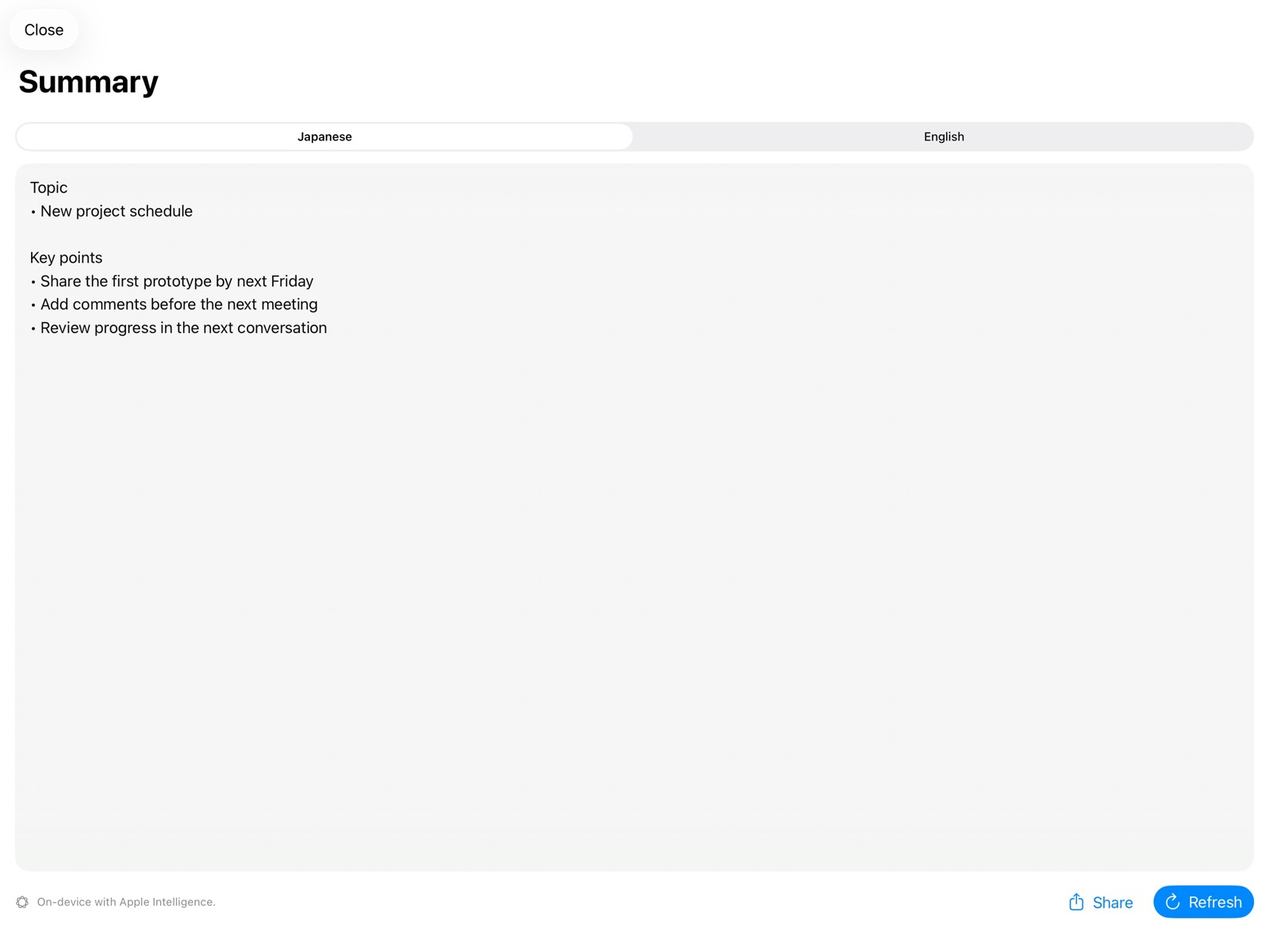
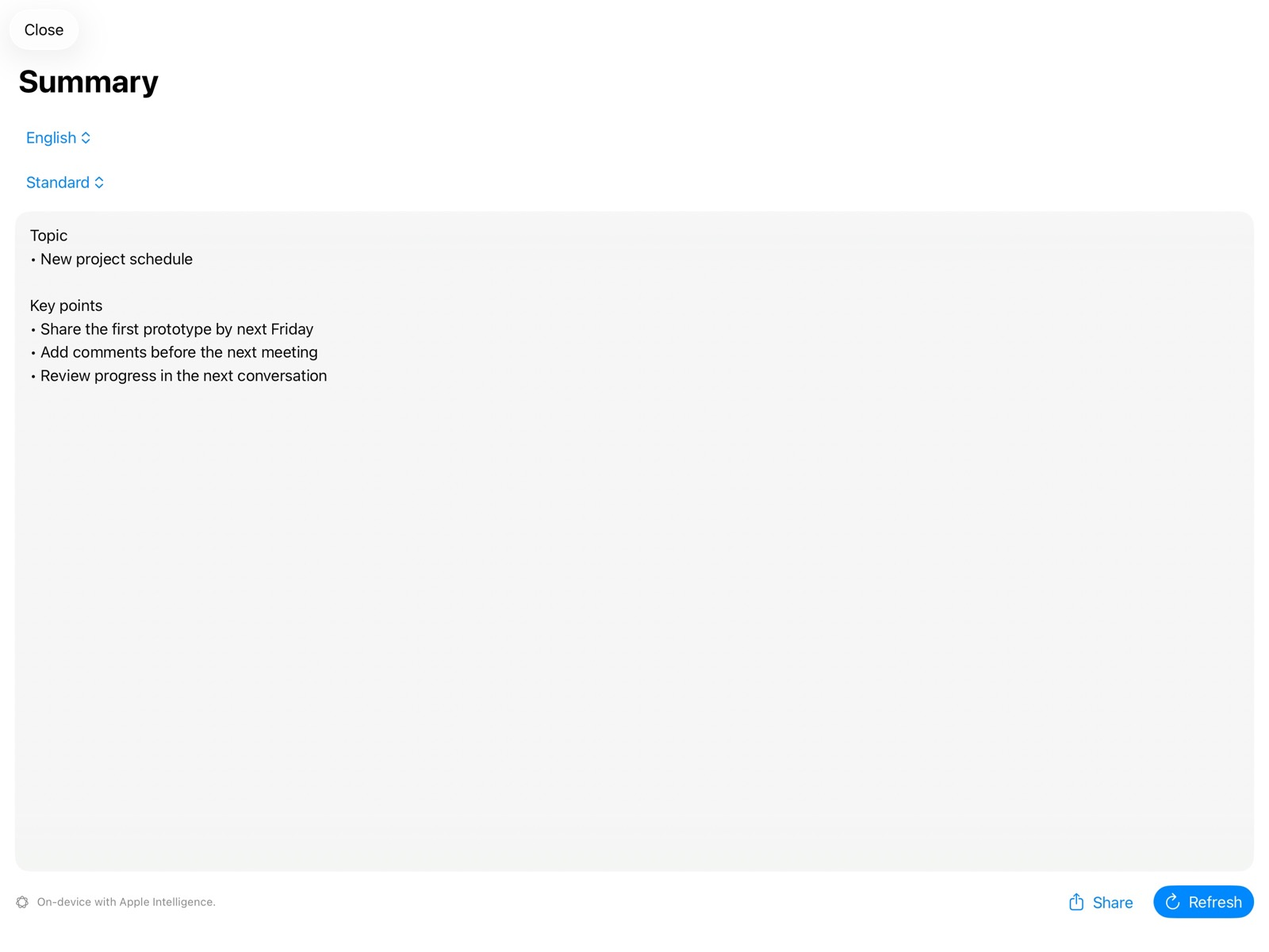
Update Wayaknow multilingual release page

diff --git a/ja/apps/wayaknow/index.html b/ja/apps/wayaknow/index.html
@@ -3,7 +3,7 @@
 <head>
   <meta charset="utf-8">
   <meta name="viewport" content="width=device-width, initial-scale=1">
-  <meta name="description" content="wayaknowは、日本語・英語の音声をリアルタイムで書き起こし、翻訳し、要点をまとめるMac・iPhone・iPadアプリです。">
+  <meta name="description" content="wayaknowは、10言語の音声を端末内でリアルタイムに書き起こし、翻訳し、選んだ形式で要約するMac・iPhone・iPad・Apple Watchアプリです。">
   <meta property="og:title" content="wayaknow — リアルタイム書き起こし・翻訳・要約">
   <meta property="og:description" content="話す。伝わる。まとまる。音声を「分かる」へ渡すアプリ。">
   <meta property="og:type" content="website">
@@ -33,10 +33,10 @@
         <div>
           <h1 class="page-title">wayaknow</h1>
           <p class="page-subtitle">話す。伝わる。まとまる。</p>
-          <div class="meta-row"><span class="tag">macOS</span><span class="tag">iPhone</span><span class="tag">iPad</span><span class="tag">日本語 ⇄ English</span></div>
+          <div class="meta-row"><span class="tag">macOS</span><span class="tag">iPhone</span><span class="tag">iPad</span><span class="tag">Apple Watch</span><span class="tag">10言語</span></div>
         </div>
       </div>
-      <p class="lead">日本語または英語の音声をその場で文字にし、反対側の言語へ1文ずつ翻訳。必要なときは、会話のトピックとポイントをまとめます。</p>
+      <p class="lead">10言語の音声をその場で文字にし、選んだ言語へ1文ずつ翻訳。必要なときは、目的に合わせた形式で会話のトピックとポイントをまとめます。</p>
       <div class="button-row">
         <a class="button primary" href="https://apps.apple.com/app/wayaknow/id6792943436" rel="external">App Storeで見る <span aria-hidden="true">↗</span></a>
         <a class="button" href="/ja/apps/wayaknow/support/">使い方・サポート</a>
@@ -45,14 +45,14 @@
 
     <section class="section tinted">
       <div class="container">
-        <div class="section-head reveal"><p class="eyebrow">What it does</p><h2 class="section-title">会話を追いかけながら、読める形へ。</h2><p class="section-copy">複雑な操作を挟まず、入力言語を選んで開始するだけ。話している途中でも、日本語と英語を切り替えられます。</p></div>
+        <div class="section-head reveal"><p class="eyebrow">What it does</p><h2 class="section-title">会話を追いかけながら、読める形へ。</h2><p class="section-copy">複雑な操作を挟まず、入力言語を選んで開始するだけ。10言語の入力と翻訳先を、話している途中でも切り替えられます。</p></div>
         <div class="feature-grid">
-          <article class="feature reveal"><span class="feature-number">01</span><h3>リアルタイム書き起こし</h3><p>日本語または英語を選び、音声を文章へ。新しい発話へ自動でスクロールします。</p></article>
-          <article class="feature reveal"><span class="feature-number">02</span><h3>1文ずつ翻訳</h3><p>文章がまとまるたびに日英翻訳。会話への追従を優先する低遅延と、自然さを優先する高品質を選べます。</p></article>
-          <article class="feature reveal"><span class="feature-number">03</span><h3>トピックとポイントを要約</h3><p>書き起こし全体から話題と要点を整理。内容に応じて決定事項やアクション項目も示します。</p></article>
+          <article class="feature reveal"><span class="feature-number">01</span><h3>リアルタイム書き起こし</h3><p>10言語から選び、音声を文章へ。新しい発話へ自動でスクロールします。</p></article>
+          <article class="feature reveal"><span class="feature-number">02</span><h3>1文ずつ翻訳</h3><p>文章がまとまるたびに翻訳。会話への追従を優先する低遅延と、自然さを優先する高品質を選べます。</p></article>
+          <article class="feature reveal"><span class="feature-number">03</span><h3>目的に合わせた要約</h3><p>標準、会議メモ、講義ノート、研究発表、案内・手続きから選択。話題とポイントを整理します。</p></article>
           <article class="feature reveal"><span class="feature-number">04</span><h3>Macのシステム音声</h3><p>Mac版は、権利や許諾のある音声に限り、Macで再生中の音声を入力として選べます。</p></article>
           <article class="feature reveal"><span class="feature-number">05</span><h3>最前面ミニ表示</h3><p>Macで別のアプリを使いながら、書き起こし・翻訳・両方を小さなウインドウで確認できます。</p></article>
-          <article class="feature reveal"><span class="feature-number">06</span><h3>保存とプライバシー</h3><p>文章は選んだ場所へテキストで保存。音声認識、翻訳、要約を開発者のサーバーへ送りません。</p></article>
+          <article class="feature reveal"><span class="feature-number">06</span><h3>保存とプライバシー</h3><p>文章は選んだ場所へテキストで保存。必要なモデルを準備した対応端末では、主要機能を端末内で処理します。</p></article>
         </div>
       </div>
     </section>
@@ -80,7 +80,7 @@
         <div class="section-head reveal"><p class="eyebrow">Requirements & privacy</p><h2 class="section-title">端末の中で処理する設計。</h2></div>
         <div class="split">
           <article class="notice reveal"><h3>動作環境</h3><p>Apple silicon搭載MacのmacOS 26.4以降、またはiOS／iPadOS 26.4以降。高品質モードと要約は、Apple Intelligenceの対応状況やモデルの準備状態により利用可否が異なります。</p></article>
-          <article class="notice reveal"><h3>データの扱い</h3><p>アカウント登録、広告、アクセス解析はありません。音声、書き起こし、翻訳、要約を開発者のサーバーへ収集しません。詳しくはプライバシーポリシーをご覧ください。</p></article>
+          <article class="notice reveal"><h3>オフラインとデータの扱い</h3><p>初回などに必要なモデルを準備した対応端末では、主要機能をネット接続なしで端末内処理できます。アカウント、広告、アクセス解析はなく、会話内容を開発者のサーバーへ収集しません。</p></article>
         </div>
         <div class="button-row"><a class="button" href="/ja/apps/wayaknow/privacy/">プライバシーポリシー</a><a class="button" href="/ja/apps/wayaknow/terms/">利用規約</a></div>
       </div>

diff --git a/en/apps/wayaknow/index.html b/en/apps/wayaknow/index.html
@@ -3,7 +3,7 @@
 <head>
   <meta charset="utf-8">
   <meta name="viewport" content="width=device-width, initial-scale=1">
-  <meta name="description" content="wayaknow transcribes Japanese or English in real time, translates sentence by sentence, and summarizes the conversation on Mac, iPhone, and iPad.">
+  <meta name="description" content="wayaknow transcribes speech in 10 languages on device, translates sentence by sentence, and summarizes in a chosen format on Mac, iPhone, iPad, and Apple Watch.">
   <meta property="og:title" content="wayaknow — Live transcription, translation, and summaries">
   <meta property="og:description" content="Speak. Understand. Carry the conversation forward.">
   <meta property="og:type" content="website">
@@ -30,22 +30,22 @@
       <p class="breadcrumbs"><a href="/en/">Nakano Lab Software</a> / wayaknow</p>
       <div class="product-hero">
         <img class="product-icon" src="/assets/images/wayaknow/icon.png" alt="wayaknow icon" width="1024" height="1024">
-        <div><h1 class="page-title">wayaknow</h1><p class="page-subtitle">Speak. Understand. Carry it forward.</p><div class="meta-row"><span class="tag">macOS</span><span class="tag">iPhone</span><span class="tag">iPad</span><span class="tag">日本語 ⇄ English</span></div></div>
+        <div><h1 class="page-title">wayaknow</h1><p class="page-subtitle">Speak. Understand. Carry it forward.</p><div class="meta-row"><span class="tag">macOS</span><span class="tag">iPhone</span><span class="tag">iPad</span><span class="tag">Apple Watch</span><span class="tag">10 languages</span></div></div>
       </div>
-      <p class="lead">Turn Japanese or English speech into live text, translate each completed sentence into the other language, and summarize the conversation into topics and key points when you need them.</p>
+      <p class="lead">Turn speech in 10 languages into live text, translate each completed sentence into a language you choose, and summarize the conversation in a format that fits the moment.</p>
       <div class="button-row"><a class="button primary" href="https://apps.apple.com/app/wayaknow/id6792943436" rel="external">View on the App Store <span aria-hidden="true">↗</span></a><a class="button" href="/en/apps/wayaknow/support/">Help & support</a></div>
     </section>
 
     <section class="section tinted">
       <div class="container">
-        <div class="section-head reveal"><p class="eyebrow">What it does</p><h2 class="section-title">Follow the conversation in a form you can read.</h2><p class="section-copy">Choose the spoken language and start. You can switch between Japanese and English even while transcription is running.</p></div>
+        <div class="section-head reveal"><p class="eyebrow">What it does</p><h2 class="section-title">Follow the conversation in a form you can read.</h2><p class="section-copy">Choose a spoken language and start. You can change the spoken and target languages from 10 choices while transcription is running.</p></div>
         <div class="feature-grid">
-          <article class="feature reveal"><span class="feature-number">01</span><h3>Live transcription</h3><p>Transcribe Japanese or English speech and automatically keep the newest lines in view.</p></article>
+          <article class="feature reveal"><span class="feature-number">01</span><h3>Live transcription</h3><p>Choose from 10 spoken languages and automatically keep the newest lines in view.</p></article>
           <article class="feature reveal"><span class="feature-number">02</span><h3>Sentence-by-sentence translation</h3><p>Translate as sentences complete. Choose Low Latency for pace or High Quality for more natural phrasing.</p></article>
-          <article class="feature reveal"><span class="feature-number">03</span><h3>Topics and key points</h3><p>Organize a transcript by topic and key ideas, with decisions or action items shown only when the conversation calls for them.</p></article>
+          <article class="feature reveal"><span class="feature-number">03</span><h3>Summaries that fit the moment</h3><p>Choose Standard, Meeting Notes, Lecture Notes, Research Presentation, or Guidance & Procedures to organize topics and key points.</p></article>
           <article class="feature reveal"><span class="feature-number">04</span><h3>Mac system audio</h3><p>On Mac, authorized audio playing on the device can be selected as the input source.</p></article>
           <article class="feature reveal"><span class="feature-number">05</span><h3>Always-on-top mini view</h3><p>Keep transcription, translation, or both visible in a compact window while using another Mac app.</p></article>
-          <article class="feature reveal"><span class="feature-number">06</span><h3>Save with privacy</h3><p>Save text only where you choose. Audio and generated text are not sent to the developer’s servers.</p></article>
+          <article class="feature reveal"><span class="feature-number">06</span><h3>Save with privacy</h3><p>Save text only where you choose. On supported devices with ready models, core features process on device.</p></article>
         </div>
       </div>
     </section>
@@ -73,7 +73,7 @@
         <div class="section-head reveal"><p class="eyebrow">Requirements & privacy</p><h2 class="section-title">Designed for on-device processing.</h2></div>
         <div class="split">
           <article class="notice reveal"><h3>Requirements</h3><p>An Apple silicon Mac with macOS 26.4 or later, or iOS/iPadOS 26.4 or later. High Quality translation and summaries depend on Apple Intelligence support and model readiness.</p></article>
-          <article class="notice reveal"><h3>Your data</h3><p>No account, ads, or analytics. wayaknow does not collect your audio, transcripts, translations, or summaries on developer-operated servers.</p></article>
+          <article class="notice reveal"><h3>Offline and your data</h3><p>Once required models are ready on a supported device, core features can work without an internet connection. There are no accounts, ads, or analytics, and wayaknow does not collect your conversation on developer-operated servers.</p></article>
         </div>
         <div class="button-row"><a class="button" href="/en/apps/wayaknow/privacy/">Privacy Policy</a><a class="button" href="/en/apps/wayaknow/terms/">Terms of Use</a></div>
       </div>

diff --git a/ja/apps/wayaknow/support/index.html b/ja/apps/wayaknow/support/index.html
@@ -16,21 +16,22 @@
     <article class="document">
       <p class="breadcrumbs"><a href="/ja/">Nakano Lab Software</a> / <a href="/ja/apps/wayaknow/">wayaknow</a> / サポート</p>
       <h1>wayaknow<br>サポート</h1>
-      <p class="updated">更新日: 2026年8月7日</p>
-      <p>wayaknowは、日本語または英語の音声をリアルタイムで書き起こし、反対側の言語へ翻訳し、会話を要約するmacOS／iOS／iPadOSアプリです。</p>
+      <p class="updated">更新日: 2026年8月11日</p>
+      <p>wayaknowは、10言語の音声をリアルタイムで書き起こし、選んだ言語へ翻訳し、目的に合う形式で会話を要約するmacOS／iOS／iPadOS／watchOSアプリです。</p>
 
       <h2 id="requirements">動作環境</h2>
       <h3>Mac版</h3><ul><li>Apple silicon搭載Mac</li><li>macOS 26.4以降</li></ul>
       <h3>iPhone／iPad版</h3><ul><li>iOS／iPadOS 26.4以降</li></ul>
-      <p>高品質モードと要約の利用可否は、Apple Intelligenceの対応状況とモデルの準備状態により異なります。初回のみ、音声認識モデルまたは翻訳言語のダウンロードが必要になる場合があります。</p>
+      <p>高品質モードと要約の利用可否は、Apple Intelligenceの対応状況とモデルの準備状態により異なります。初回などに、音声認識モデル、翻訳言語またはApple Intelligenceのモデルの準備が必要になる場合があります。必要なモデルが準備された対応端末では、対応する主要機能をネット接続なしで端末内処理できます。</p>
 
       <h2 id="start">基本的な使い方</h2>
-      <ol><li>入力言語を日本語または英語にします。</li><li>Mac版では、使用するマイクまたは「Macのシステム音声」を選びます。</li><li>開始ボタンを押し、初回に表示されるマイクと音声認識の許可を承認します。</li><li>書き起こしと翻訳が1文ごとに表示されます。必要に応じて低遅延／高品質を切り替えます。</li><li>「要約」で現在の書き起こしを日本語または英語にまとめられます。</li><li>「保存」で書き起こし、翻訳、生成済み要約をUTF-8テキストとして保存できます。</li></ol>
+      <ol><li>10言語から入力言語を選び、翻訳先を選びます。</li><li>Mac版では、使用するマイクまたは「Macのシステム音声」を選びます。</li><li>開始ボタンを押し、初回に表示されるマイクと音声認識の許可を承認します。</li><li>書き起こしと翻訳が1文ごとに表示されます。必要に応じて低遅延／高品質を切り替えます。</li><li>「要約」で現在の書き起こしをまとめ、標準、会議メモ、講義ノート、研究発表、案内・手続きから形式を選びます。</li><li>「保存」で書き起こし、翻訳、生成済み要約をUTF-8テキストとして保存できます。</li></ol>
 
       <h2 id="faq">よくある質問</h2>
       <h3>音声が認識されません</h3><ul><li>入力言語が、実際に話している言語と一致しているか確認してください。</li><li>選択中のマイク入力が正しいか確認してください。</li><li>端末の設定でwayaknowのマイクと音声認識を許可してください。</li><li>初回の言語モデルの準備が終わるまで待ってください。</li><li>改善しない場合は一度停止し、wayaknowを再起動してください。</li></ul>
       <h3>翻訳が遅れます</h3><p>「低遅延」を選択してください。高品質モードは自然な表現を優先するため、端末の状態や文章量によって時間がかかる場合があります。</p>
       <h3>要約できません</h3><p>要約にはApple Intelligenceを使用します。対応端末でApple Intelligenceが有効になっていることと、モデルの準備が完了していることを確認してください。長い書き起こしは分割して処理するため、短い内容より時間がかかる場合があります。</p>
+      <h3>ネット接続なしで使えますか</h3><p>初回などに必要なモデルを準備した対応端末では、書き起こし、翻訳、要約などの対応機能を端末内で利用できます。高品質翻訳と要約にはApple Intelligence対応端末が必要です。モデルの入手・更新、購入・復元などにはネット接続が必要になる場合があります。</p>
       <h3>無料版の5分が終わるとどうなりますか</h3><p>書き起こしは継続しますが、翻訳、要約、保存は1分間待機します。待機終了後に「翻訳を再開」を押すと、次の5分間を利用できます。Full Accessではこの時間制限がなくなります。</p>
       <h3>購入を別の端末で使えますか</h3><p>同じApple Accountを使用しているMac、iPhone、iPadでは「購入を復元」を選択してください。購入は買い切りで、サブスクリプションではありません。</p>
       <h3>Macで再生中の音声を扱えません</h3><ol><li>「音声入力」で「Macのシステム音声」を選びます。</li><li>開始時の確認を読み、必要な権利・利用許諾・参加者の同意がある場合だけ「同意して開始」を押します。</li><li>「システム設定」→「プライバシーとセキュリティ」→「画面収録とシステムオーディオ録音」を開き、wayaknowを許可します。</li><li>wayaknowを終了して起動し直します。</li></ol><p>wayaknowは画面映像と原音を保存せず、DRMやコピー防止機能を回避しません。第三者サービスの規約で書き起こしや翻訳が認められているとは限りません。権利または利用許諾のある音声だけを使用してください。</p>

diff --git a/en/apps/wayaknow/support/index.html b/en/apps/wayaknow/support/index.html
@@ -16,21 +16,22 @@
     <article class="document">
       <p class="breadcrumbs"><a href="/en/">Nakano Lab Software</a> / <a href="/en/apps/wayaknow/">wayaknow</a> / Support</p>
       <h1>wayaknow<br>Support</h1>
-      <p class="updated">Updated August 7, 2026</p>
-      <p>wayaknow is a macOS, iOS, and iPadOS app that transcribes Japanese or English speech in real time, translates it into the other language, and summarizes the conversation.</p>
+      <p class="updated">Updated August 11, 2026</p>
+      <p>wayaknow is a macOS, iOS, iPadOS, and watchOS app that transcribes speech in 10 languages in real time, translates it into a language you choose, and summarizes the conversation in a format that fits the moment.</p>
 
       <h2 id="requirements">System requirements</h2>
       <h3>Mac</h3><ul><li>Mac with Apple silicon</li><li>macOS 26.4 or later</li></ul>
       <h3>iPhone and iPad</h3><ul><li>iOS or iPadOS 26.4 or later</li></ul>
-      <p>High Quality mode and summaries depend on Apple Intelligence availability and model readiness. The speech-recognition model or translation languages may need to be downloaded on first use.</p>
+      <p>High Quality mode and summaries depend on Apple Intelligence availability and model readiness. Speech-recognition, translation, or Apple Intelligence models may need preparation on first use. Once required models are ready on a supported device, available core features can process on device without an internet connection.</p>
 
       <h2 id="start">Getting started</h2>
-      <ol><li>Choose Japanese or English as the input language.</li><li>On Mac, choose a microphone or Mac System Audio.</li><li>Select Start and approve microphone and speech-recognition access when prompted.</li><li>Transcription and translation appear sentence by sentence. Switch between Low Latency and High Quality as needed.</li><li>Select Summary to summarize the current transcript in Japanese or English.</li><li>Select Save to export the transcript, translation, and any generated summary as UTF-8 text.</li></ol>
+      <ol><li>Choose a spoken language from 10 options and select a target language.</li><li>On Mac, choose a microphone or Mac System Audio.</li><li>Select Start and approve microphone and speech-recognition access when prompted.</li><li>Transcription and translation appear sentence by sentence. Switch between Low Latency and High Quality as needed.</li><li>Select Summary, then choose Standard, Meeting Notes, Lecture Notes, Research Presentation, or Guidance & Procedures.</li><li>Select Save to export the transcript, translation, and any generated summary as UTF-8 text.</li></ol>
 
       <h2 id="faq">Frequently asked questions</h2>
       <h3>Speech is not being recognized</h3><ul><li>Confirm that the input language matches the language being spoken.</li><li>Confirm that the correct microphone is selected.</li><li>Allow microphone and speech-recognition access for wayaknow in system settings.</li><li>Wait for the language model to finish preparing on first use.</li><li>If the issue continues, stop transcription and restart wayaknow.</li></ul>
       <h3>Translation is falling behind</h3><p>Select Low Latency. High Quality favors natural phrasing and may take longer depending on the device and amount of speech.</p>
       <h3>Summaries are unavailable</h3><p>Summaries use Apple Intelligence. Confirm that Apple Intelligence is enabled on a supported device and that its models are ready. Longer transcripts are processed in sections and may take more time.</p>
+      <h3>Can I use the app offline?</h3><p>Once required models are ready on a supported device, available transcription, translation, and summary features process on device. High Quality translation and summaries require Apple Intelligence–compatible hardware. Internet access can still be needed to obtain or update models and to purchase or restore Full Access.</p>
       <h3>What happens after the free five minutes?</h3><p>Transcription continues, while translation, summaries, and saving pause for one minute. When the wait ends, select Resume Translation to start the next five-minute period. Full Access removes this limit.</p>
       <h3>Can I use my purchase on another device?</h3><p>On a Mac, iPhone, or iPad signed in to the same Apple Account, select Restore Purchases. Full Access is a one-time purchase, not a subscription.</p>
       <h3>Mac system audio is unavailable</h3><ol><li>Choose Mac System Audio under Audio Input.</li><li>Read the confirmation and continue only when you have the necessary rights, permission, and participant consent.</li><li>Open System Settings → Privacy & Security → Screen & System Audio Recording and allow wayaknow.</li><li>Quit and reopen wayaknow.</li></ol><p>wayaknow does not save screen video or original audio and does not bypass DRM or copy protection. A third-party service may not permit transcription or translation. Process only audio you have the right or permission to use.</p>

diff --git a/ja/apps/wayaknow/privacy/index.html b/ja/apps/wayaknow/privacy/index.html
@@ -26,7 +26,7 @@
       <h2 id="processing">2. 音声、書き起こし、翻訳および要約</h2>
       <p>本アプリは、利用者が選択したマイク音声を、リアルタイムの書き起こしと翻訳のために処理します。macOS版では、利用者が「Macのシステム音声」を明示的に選択した場合、Macで再生中の音声を同じ目的で処理します。</p>
       <p>音声認識、翻訳、利用者が実行した要約は、Appleが提供する端末上のフレームワークとモデルを使用して処理されます。本アプリは、音声、書き起こし、翻訳、要約を開発者のサーバーへ送信しません。</p>
-      <p>初回利用時などに、Appleが提供する音声認識モデルまたは翻訳言語のダウンロードが必要になる場合があります。Appleのサービスによる情報の取り扱いには、Appleのプライバシーポリシーが適用されます。</p>
+      <p>初回利用時などに、Appleが提供する音声認識モデル、翻訳言語またはApple Intelligenceのモデルの準備が必要になる場合があります。必要なモデルが準備された対応端末では、利用可能な主要機能はネット接続なしで端末内処理できます。Appleのサービスによる情報の取り扱いには、Appleのプライバシーポリシーが適用されます。</p>
 
       <h2 id="permissions">3. マイクと音声認識の権限</h2>
       <p>本アプリは、リアルタイム書き起こしのためにマイクと音声認識へのアクセスを求めます。利用者は、端末の「設定」または「システム設定」から、いつでも権限を変更または取り消せます。権限を取り消すと、該当する音声入力または書き起こし機能を利用できなくなります。</p>

diff --git a/en/apps/wayaknow/privacy/index.html b/en/apps/wayaknow/privacy/index.html
@@ -26,7 +26,7 @@
       <h2 id="processing">2. Audio, transcripts, translations, and summaries</h2>
       <p>The App processes microphone audio selected by the user for live transcription and translation. On macOS, when the user explicitly selects Mac System Audio, the App processes audio playing on the Mac for the same purpose.</p>
       <p>Speech recognition, translation, and user-requested summaries are processed using on-device frameworks and models provided by Apple. The App does not send audio, transcripts, translations, or summaries to the developer’s servers.</p>
-      <p>Speech-recognition models or translation languages provided by Apple may need to be downloaded on first use. Apple’s privacy policies apply to information handled by Apple services.</p>
+      <p>Speech-recognition, translation, or Apple Intelligence models provided by Apple may need preparation on first use. Once required models are ready on a supported device, available core features can process on device without an internet connection. Apple’s privacy policies apply to information handled by Apple services.</p>
 
       <h2 id="permissions">3. Microphone and speech-recognition permissions</h2>
       <p>The App requests microphone and speech-recognition access for live transcription. You can change or revoke these permissions at any time in Settings or System Settings. Revoking a permission makes the related input or transcription feature unavailable.</p>

diff --git a/en/index.html b/en/index.html
@@ -57,7 +57,7 @@
         <div class="app-grid">
           <a class="app-card reveal" href="/en/apps/wayaknow/">
             <div class="card-top"><img class="app-icon" src="/assets/images/wayaknow/icon.png" alt="" width="1024" height="1024"><div><p class="card-kicker">macOS · iPhone · iPad</p><h3 class="card-title">wayaknow</h3></div></div>
-            <p class="card-copy">Transcribe Japanese or English in real time, translate sentence by sentence, and turn the conversation into clear key points.</p>
+            <p class="card-copy">Transcribe speech in 10 languages on device, translate sentence by sentence, and summarize it in a format that fits the moment.</p>
             <span class="card-link">Learn more <span aria-hidden="true">↗</span></span>
           </a>
 

diff --git a/ja/index.html b/ja/index.html
@@ -60,7 +60,7 @@
               <img class="app-icon" src="/assets/images/wayaknow/icon.png" alt="" width="1024" height="1024">
               <div><p class="card-kicker">macOS · iPhone · iPad</p><h3 class="card-title">wayaknow</h3></div>
             </div>
-            <p class="card-copy">日本語と英語の会話を、リアルタイムで書き起こし、翻訳し、要点にまとめるアプリです。</p>
+            <p class="card-copy">10言語の会話を端末内でリアルタイムに書き起こし、翻訳し、目的に合わせた形式で要約するアプリです。</p>
             <span class="card-link">詳しく見る <span aria-hidden="true">↗</span></span>
           </a>
 
